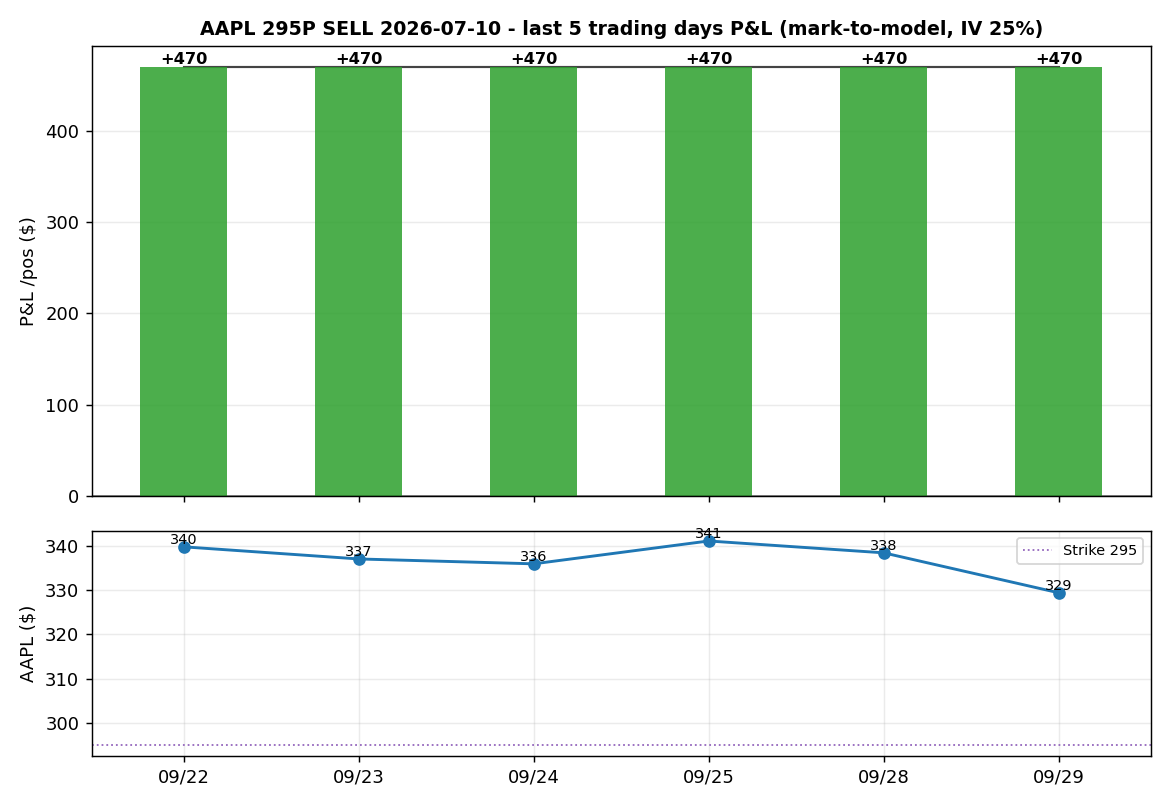
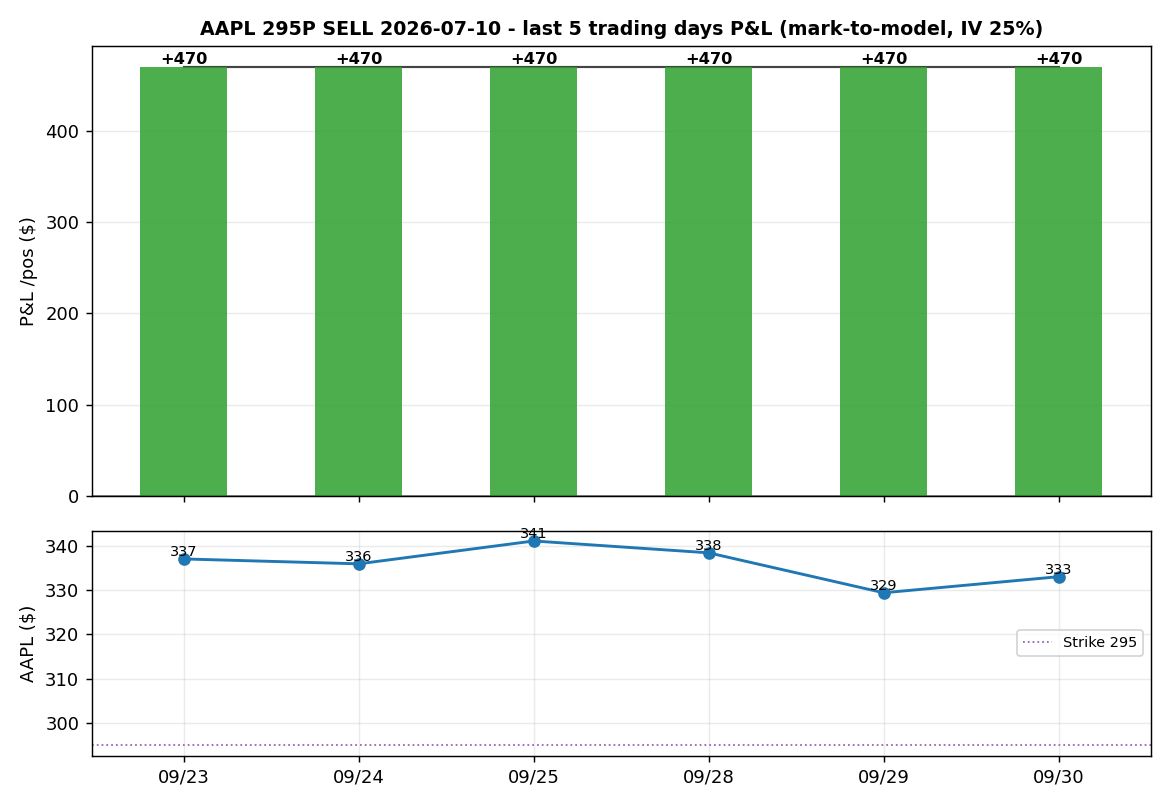
positions: 2026-10-02

Changed region(s): [[0.1538, 0.6514, 0.7077, 0.7134], [0.7077, 0.6514, 0.9846, 0.7444], [0.8615, 0.7754, 0.9846, 0.8065]]

diff --git a/positions.html b/positions.html
@@ -12,11 +12,11 @@ img{width:100%;height:auto;border-radius:8px;background:#fff}
 .warn{color:#e0a030;font-size:12.5px;line-height:1.7;margin-top:8px}
 </style></head><body><div class="wrap">
 <h1>持仓盈亏追踪</h1>
-<div class="sub">独立于每日荐股 · 数据 yfinance(延迟) · 盈亏为 BS 模型重算(IV 代理),非真实成交价 · 非投资建议<br>更新: 2026-10-01 00:47 UTC</div>
+<div class="sub">独立于每日荐股 · 数据 yfinance(延迟) · 盈亏为 BS 模型重算(IV 代理),非真实成交价 · 非投资建议<br>更新: 2026-10-02 01:03 UTC</div>
 <div class="card">
   <h2>STX Seagate · 835 PUT <span class="tag">SELL</span></h2>
   <div class="kv">到期 2026-06-26 · 建仓 2026-06-01 @ 权利金 $42.11 · 1 张<br>
-  最新(09/29): 标的 $913.45 · 浮动盈亏 <b class="g">+4,211</b>
+  最新(09/30): 标的 $922.34 · 浮动盈亏 <b class="g">+4,211</b>
   (区间 +4,211 ~ +4,211)<br>
   盈亏平衡 $792.89 · <b>赢的机率 PoP ≈ None%</b>(到期落在盈利侧, BS 估算)<br>
   下次财报 2026-10-27 ✅ 在到期后</div>
@@ -30,15 +30,15 @@ img{width:100%;height:auto;border-radius:8px;background:#fff}
     <tr><th style="border:1px solid #23262d;padding:5px 12px;color:#e0a030">日期</th>
         <th style="border:1px solid #23262d;padding:5px 12px;color:#e0a030">标的</th>
         <th style="border:1px solid #23262d;padding:5px 12px;color:#e0a030">P&L</th></tr>
-    <tr><td style="border:1px solid #23262d;padding:5px 12px">09/22</td><td style="border:1px solid #23262d;padding:5px 12px">$919.1</td><td class='g'>+4,211</td></tr><tr><td style="border:1px solid #23262d;padding:5px 12px">09/23</td><td style="border:1px solid #23262d;padding:5px 12px">$923.12</td><td class='g'>+4,211</td></tr><tr><td style="border:1px solid #23262d;padding:5px 12px">09/24</td><td style="border:1px solid #23262d;padding:5px 12px">$905.92</td><td class='g'>+4,211</td></tr><tr><td style="border:1px solid #23262d;padding:5px 12px">09/25</td><td style="border:1px solid #23262d;padding:5px 12px">$916.83</td><td class='g'>+4,211</td></tr><tr><td style="border:1px solid #23262d;padding:5px 12px">09/28</td><td style="border:1px solid #23262d;padding:5px 12px">$921.51</td><td class='g'>+4,211</td></tr><tr><td style="border:1px solid #23262d;padding:5px 12px">09/29</td><td style="border:1px solid #23262d;padding:5px 12px">$913.45</td><td class='g'>+4,211</td></tr>
+    <tr><td style="border:1px solid #23262d;padding:5px 12px">09/23</td><td style="border:1px solid #23262d;padding:5px 12px">$923.12</td><td class='g'>+4,211</td></tr><tr><td style="border:1px solid #23262d;padding:5px 12px">09/24</td><td style="border:1px solid #23262d;padding:5px 12px">$905.92</td><td class='g'>+4,211</td></tr><tr><td style="border:1px solid #23262d;padding:5px 12px">09/25</td><td style="border:1px solid #23262d;padding:5px 12px">$916.83</td><td class='g'>+4,211</td></tr><tr><td style="border:1px solid #23262d;padding:5px 12px">09/28</td><td style="border:1px solid #23262d;padding:5px 12px">$921.51</td><td class='g'>+4,211</td></tr><tr><td style="border:1px solid #23262d;padding:5px 12px">09/29</td><td style="border:1px solid #23262d;padding:5px 12px">$913.45</td><td class='g'>+4,211</td></tr><tr><td style="border:1px solid #23262d;padding:5px 12px">09/30</td><td style="border:1px solid #23262d;padding:5px 12px">$922.34</td><td class='g'>+4,211</td></tr>
   </table>
   <div class="warn">⚠ mark-to-model:用真实日线 + BS 重算(IV 固定 86% 代理),非真实期权成交价。</div>
 </div>
 <div class="card">
   <h2>GOOGL 谷歌 · 345 PUT <span class="tag">SELL</span></h2>
   <div class="kv">到期 2026-07-17 · 建仓 2026-06-01 @ 权利金 $4.5 · 1 张<br>
-  最新(09/29): 标的 $340.92 · 浮动盈亏 <b class="g">+42</b>
-  (区间 -267 ~ +450)<br>
+  最新(09/30): 标的 $344.08 · 浮动盈亏 <b class="g">+358</b>
+  (区间 -267 ~ +358)<br>
   盈亏平衡 $340.5 · <b>赢的机率 PoP ≈ None%</b>(到期落在盈利侧, BS 估算)<br>
   下次财报 2026-10-28 ✅ 在到期后</div>
   <div style="font-size:12px;color:#8b8f98;margin:8px 0 2px">到期损益示意图</div>
@@ -51,14 +51,14 @@ img{width:100%;height:auto;border-radius:8px;background:#fff}
     <tr><th style="border:1px solid #23262d;padding:5px 12px;color:#e0a030">日期</th>
         <th style="border:1px solid #23262d;padding:5px 12px;color:#e0a030">标的</th>
         <th style="border:1px solid #23262d;padding:5px 12px;color:#e0a030">P&L</th></tr>
-    <tr><td style="border:1px solid #23262d;padding:5px 12px">09/22</td><td style="border:1px solid #23262d;padding:5px 12px">$351.16</td><td class='g'>+450</td></tr><tr><td style="border:1px solid #23262d;padding:5px 12px">09/23</td><td style="border:1px solid #23262d;padding:5px 12px">$337.83</td><td class='r'>-267</td></tr><tr><td style="border:1px solid #23262d;padding:5px 12px">09/24</td><td style="border:1px solid #23262d;padding:5px 12px">$342.36</td><td class='g'>+186</td></tr><tr><td style="border:1px solid #23262d;padding:5px 12px">09/25</td><td style="border:1px solid #23262d;padding:5px 12px">$343.92</td><td class='g'>+342</td></tr><tr><td style="border:1px solid #23262d;padding:5px 12px">09/28</td><td style="border:1px solid #23262d;padding:5px 12px">$342.75</td><td class='g'>+225</td></tr><tr><td style="border:1px solid #23262d;padding:5px 12px">09/29</td><td style="border:1px solid #23262d;padding:5px 12px">$340.92</td><td class='g'>+42</td></tr>
+    <tr><td style="border:1px solid #23262d;padding:5px 12px">09/23</td><td style="border:1px solid #23262d;padding:5px 12px">$337.83</td><td class='r'>-267</td></tr><tr><td style="border:1px solid #23262d;padding:5px 12px">09/24</td><td style="border:1px solid #23262d;padding:5px 12px">$342.36</td><td class='g'>+186</td></tr><tr><td style="border:1px solid #23262d;padding:5px 12px">09/25</td><td style="border:1px solid #23262d;padding:5px 12px">$343.92</td><td class='g'>+342</td></tr><tr><td style="border:1px solid #23262d;padding:5px 12px">09/28</td><td style="border:1px solid #23262d;padding:5px 12px">$342.75</td><td class='g'>+225</td></tr><tr><td style="border:1px solid #23262d;padding:5px 12px">09/29</td><td style="border:1px solid #23262d;padding:5px 12px">$340.92</td><td class='g'>+42</td></tr><tr><td style="border:1px solid #23262d;padding:5px 12px">09/30</td><td style="border:1px solid #23262d;padding:5px 12px">$344.08</td><td class='g'>+358</td></tr>
   </table>
   <div class="warn">⚠ mark-to-model:用真实日线 + BS 重算(IV 固定 31% 代理),非真实期权成交价。</div>
 </div>
 <div class="card">
   <h2>AAPL 苹果 · 295 PUT <span class="tag">SELL</span></h2>
   <div class="kv">到期 2026-07-10 · 建仓 2026-06-01 @ 权利金 $4.7 · 1 张<br>
-  最新(09/29): 标的 $329.4 · 浮动盈亏 <b class="g">+470</b>
+  最新(09/30): 标的 $333.02 · 浮动盈亏 <b class="g">+470</b>
   (区间 +470 ~ +470)<br>
   盈亏平衡 $290.3 · <b>赢的机率 PoP ≈ None%</b>(到期落在盈利侧, BS 估算)<br>
   下次财报 2026-10-29 ✅ 在到期后</div>
@@ -72,7 +72,7 @@ img{width:100%;height:auto;border-radius:8px;background:#fff}
     <tr><th style="border:1px solid #23262d;padding:5px 12px;color:#e0a030">日期</th>
         <th style="border:1px solid #23262d;padding:5px 12px;color:#e0a030">标的</th>
         <th style="border:1px solid #23262d;padding:5px 12px;color:#e0a030">P&L</th></tr>
-    <tr><td style="border:1px solid #23262d;padding:5px 12px">09/22</td><td style="border:1px solid #23262d;padding:5px 12px">$339.75</td><td class='g'>+470</td></tr><tr><td style="border:1px solid #23262d;padding:5px 12px">09/23</td><td style="border:1px solid #23262d;padding:5px 12px">$337.02</td><td class='g'>+470</td></tr><tr><td style="border:1px solid #23262d;padding:5px 12px">09/24</td><td style="border:1px solid #23262d;padding:5px 12px">$335.92</td><td class='g'>+470</td></tr><tr><td style="border:1px solid #23262d;padding:5px 12px">09/25</td><td style="border:1px solid #23262d;padding:5px 12px">$341.07</td><td class='g'>+470</td></tr><tr><td style="border:1px solid #23262d;padding:5px 12px">09/28</td><td style="border:1px solid #23262d;padding:5px 12px">$338.4</td><td class='g'>+470</td></tr><tr><td style="border:1px solid #23262d;padding:5px 12px">09/29</td><td style="border:1px solid #23262d;padding:5px 12px">$329.4</td><td class='g'>+470</td></tr>
+    <tr><td style="border:1px solid #23262d;padding:5px 12px">09/23</td><td style="border:1px solid #23262d;padding:5px 12px">$337.02</td><td class='g'>+470</td></tr><tr><td style="border:1px solid #23262d;padding:5px 12px">09/24</td><td style="border:1px solid #23262d;padding:5px 12px">$335.92</td><td class='g'>+470</td></tr><tr><td style="border:1px solid #23262d;padding:5px 12px">09/25</td><td style="border:1px solid #23262d;padding:5px 12px">$341.07</td><td class='g'>+470</td></tr><tr><td style="border:1px solid #23262d;padding:5px 12px">09/28</td><td style="border:1px solid #23262d;padding:5px 12px">$338.4</td><td class='g'>+470</td></tr><tr><td style="border:1px solid #23262d;padding:5px 12px">09/29</td><td style="border:1px solid #23262d;padding:5px 12px">$329.4</td><td class='g'>+470</td></tr><tr><td style="border:1px solid #23262d;padding:5px 12px">09/30</td><td style="border:1px solid #23262d;padding:5px 12px">$333.02</td><td class='g'>+470</td></tr>
   </table>
   <div class="warn">⚠ mark-to-model:用真实日线 + BS 重算(IV 固定 25% 代理),非真实期权成交价。</div>
 </div></div></body></html>
